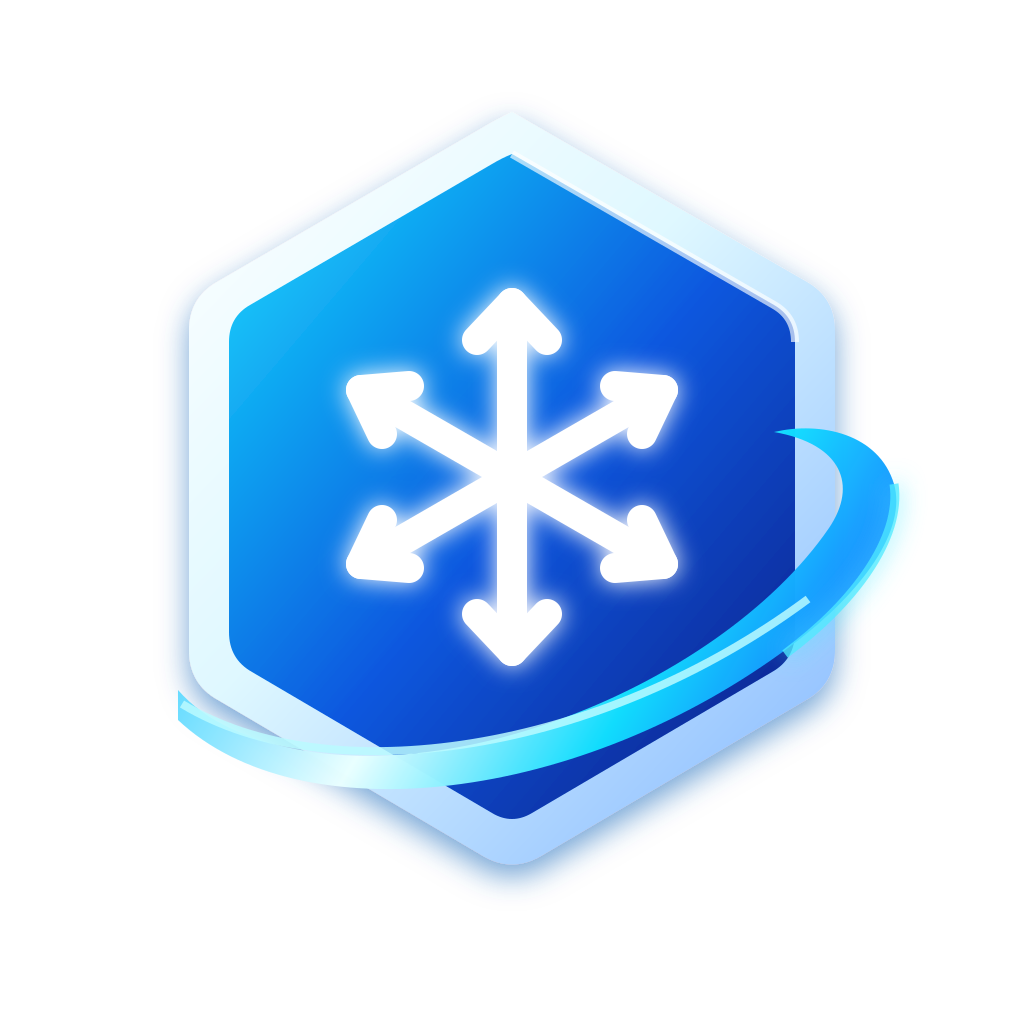
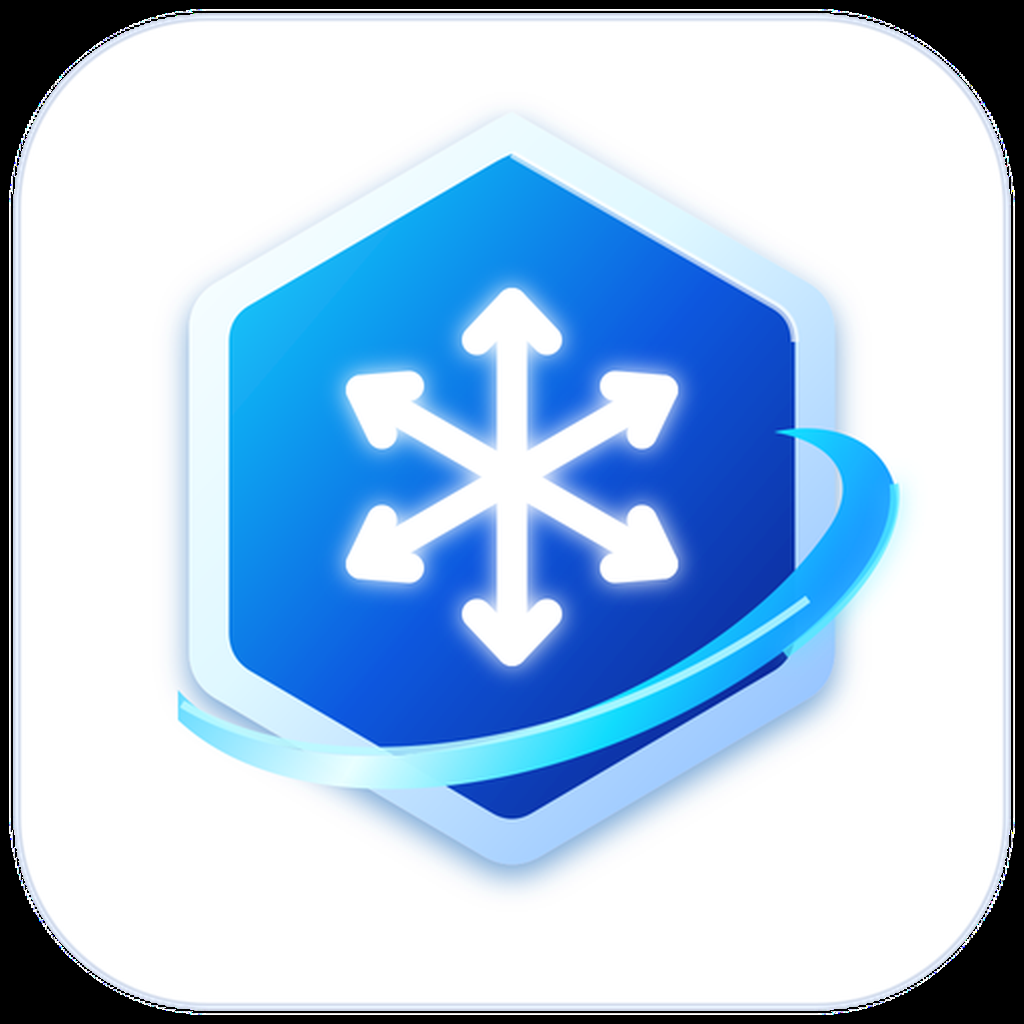
Add files via upload

Changed region(s): [[0.0, 0.0, 1.0, 1.0], [0.75, 0.4062, 0.7812, 0.4375]]

diff --git a/www/index.html b/www/index.html
@@ -7,12 +7,12 @@
   <!-- Chế độ giao diện đặt TRƯỚC khi vẽ trang (mặc định Sáng) — xem applyTheme() trong app.js -->
   <script>/* đặt giao diện TRƯỚC khi vẽ trang — giống applyTheme() trong app.js */try{var c=localStorage.getItem('klanan.theme');var d=c==='dark'||(c==='auto'&&window.matchMedia&&matchMedia('(prefers-color-scheme: dark)').matches);document.documentElement.setAttribute('data-theme',d?'dark':'light');document.querySelector('meta[name="theme-color"]').setAttribute('content',d?'#0A1118':'#FFFFFF');}catch(e){document.documentElement.setAttribute('data-theme','light');}</script>
   <script src="ui-scale.js?v=1.18-20261030"></script><!-- cỡ chữ theo % (Cài đặt › Cỡ chữ) — nạp sớm để không nháy -->
-  <link rel="icon" type="image/png" href="favicon.png">
-  <link rel="apple-touch-icon" href="apple-touch-icon.png">
+  <link rel="icon" type="image/png" href="favicon.png?v=1.39">
+  <link rel="apple-touch-icon" href="apple-touch-icon.png?v=1.39">
   <link rel="manifest" href="manifest.webmanifest">
   <title>Kho Lạnh An An</title>
 <link rel="stylesheet" href="fonts.css?v=1.18-20261030"><!-- font trong máy (offline) -->
-  <link rel="stylesheet" href="app.css?v=1.38-20261113">
+  <link rel="stylesheet" href="app.css?v=1.39-20261114">
   <link rel="stylesheet" href="kl-progress.css?v=1.18-20261030"><!-- ĐT 1.17: popup tiến trình chờ (dùng chung với PC) -->
   <link rel="stylesheet" href="c3d-phone.css?v=1.18-20261030">
   <link rel="stylesheet" href="scan.css?v=1.18-20261030"><!-- ĐT 0.5: Scan tài liệu (dùng chung với PC) -->
@@ -21,7 +21,7 @@
   <header class="topbar">
     <div class="topbar-row">
       <div class="brand">
-        <span class="brand-mark" aria-hidden="true"></span>
+        <img class="brand-mark" src="icon-192.png?v=1.39" alt="" aria-hidden="true">
         <span class="brand-name">Kho Lạnh An An</span>
       </div>
       <div class="topbar-actions">
@@ -260,6 +260,6 @@
   <script src="lt-phone.js?v=1.25-20261103"></script><!-- Lưu trữ cá nhân (ĐT 1.02) -->
   <script src="scan-phone.js?v=1.18-20261030"></script><!-- Scan tài liệu: phần nối nhỏ; lõi + giao diện nạp khi mở tab --><!-- Xếp cont 3D: chỉ là phần giao diện nhỏ; three.js nạp khi mở tab -->
   <script src="kl-quet-core.js?v=1.30"></script><script src="kl-quet.js?v=1.30"></script><!-- ĐT 1.30: quét mã QR / mã vạch thông minh (ô tìm kiếm Tổng quan + công cụ Mã QR) -->
-  <script src="app.js?v=1.38-20261113"></script>
+  <script src="app.js?v=1.39-20261114"></script>
 </body>
 </html>

diff --git a/www/app.css b/www/app.css
@@ -884,7 +884,7 @@ body.has-totalbar .multibar { bottom: calc(var(--tabbar-h) + var(--safe-bottom) 
 /* ===================== 5.0 — GIAO DIỆN MỚI (11/10/2026) ===================== */
 /* Thanh trên: logo công ty (icon-192.png) */
 .topbar { box-shadow: 0 1px 0 var(--top-line); }
-.brand-mark { width: 34px; height: 34px; border-radius: 9px; background: #fff url("icon-192.png") center / cover no-repeat; box-shadow: 0 0 0 1px var(--top-line); }
+.brand-mark { width: 36px; height: 36px; border-radius: 9px; object-fit: cover; background: #fff; display: block; }
 .brand-name { font-size: calc(17px * var(--fs, 1)); }
 .icon-btn { width: 44px; height: 44px; background: var(--frost); }
 /* Thanh tab dưới: chữ 11,5px, mục đang chọn có vạch trên */

diff --git a/www/app.js b/www/app.js
@@ -25,7 +25,7 @@
   // Tăng mỗi lần sửa app.js — hiện ở cuối Cài đặt để kiểm tra điện thoại đang chạy đúng bản chưa.
   // ĐÁNH SỐ LẠI TỪ 1.1 (30/09/2026, trước đó 3.x) — tăng mỗi lần phát hành; nhớ đổi cả ?v= trong index.html
   // và "version" trong package.json (GitHub Actions lấy số đó làm versionName của APK).
-  const APP_VERSION = '1.38 (13/11/2026)';
+  const APP_VERSION = '1.39 (14/11/2026)';
   const PAGE = 50;
 
   // Tên cột — PHẢI khớp tab TonKho_M02 (M2_PUSH_COLUMNS trong main.js của app PC).
